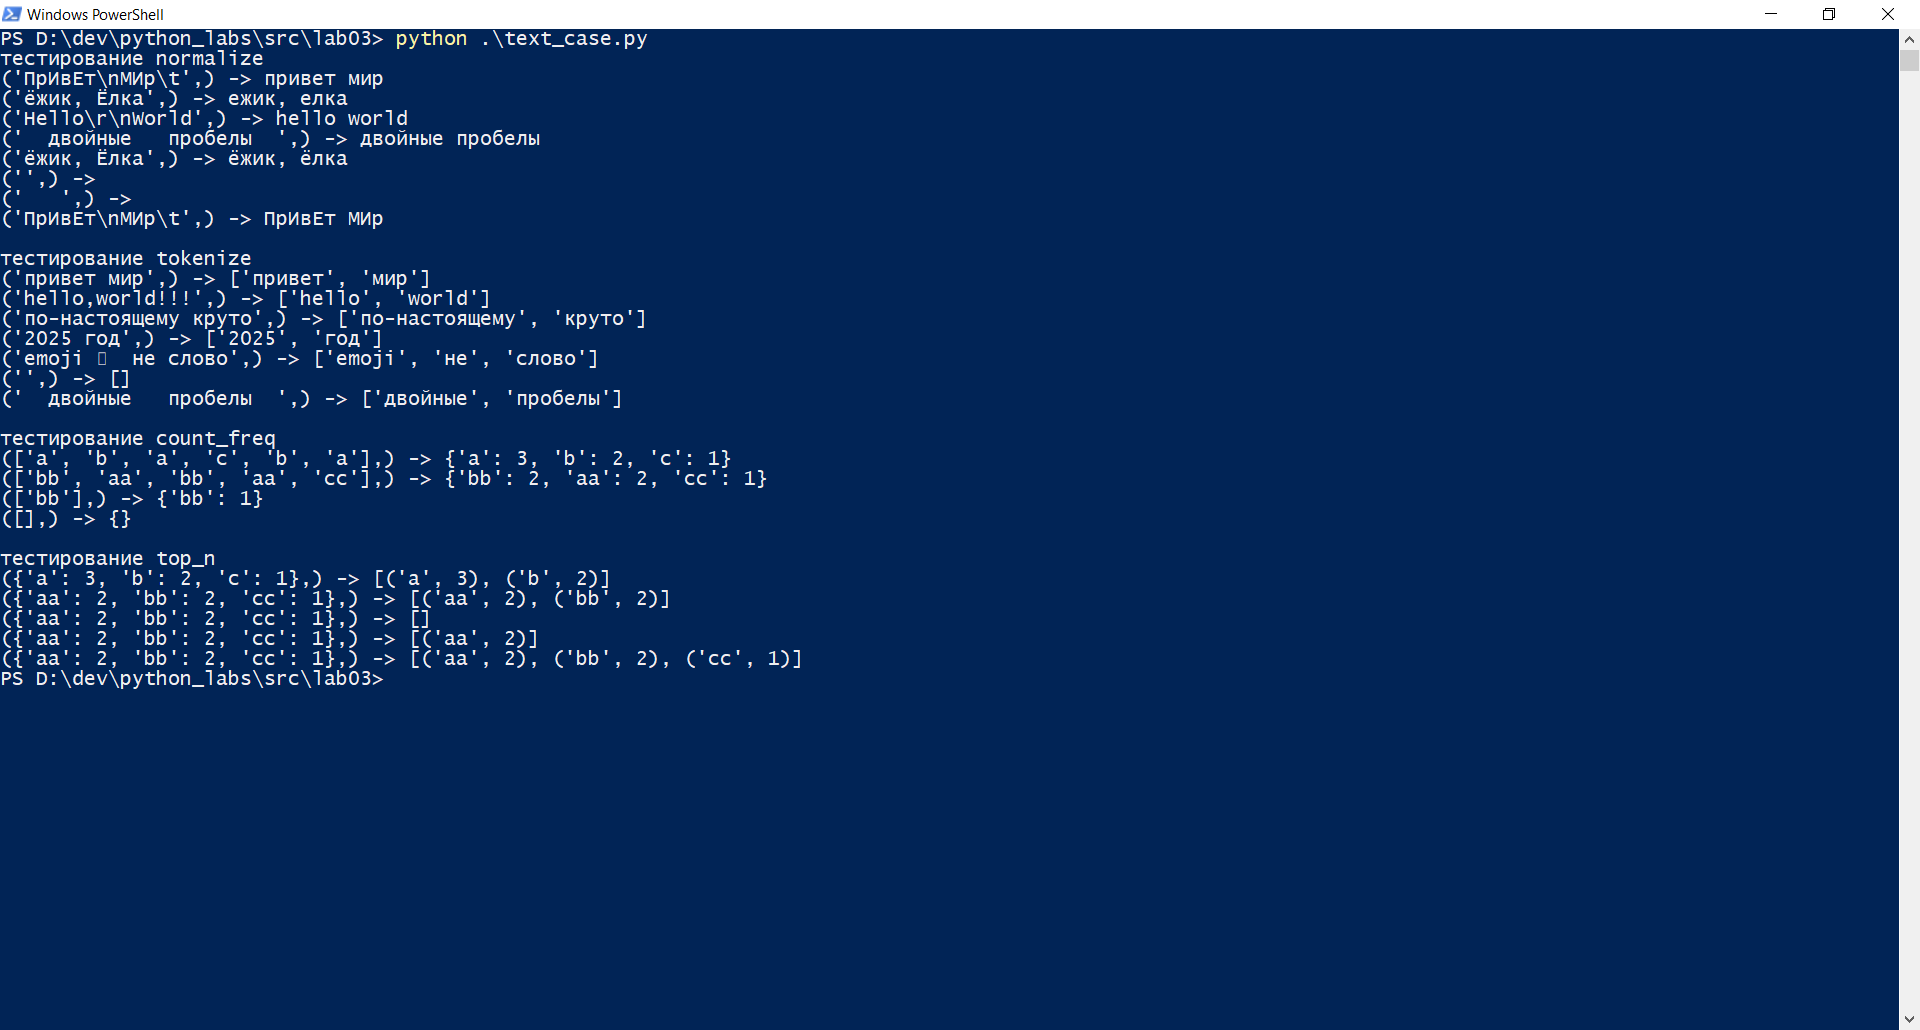
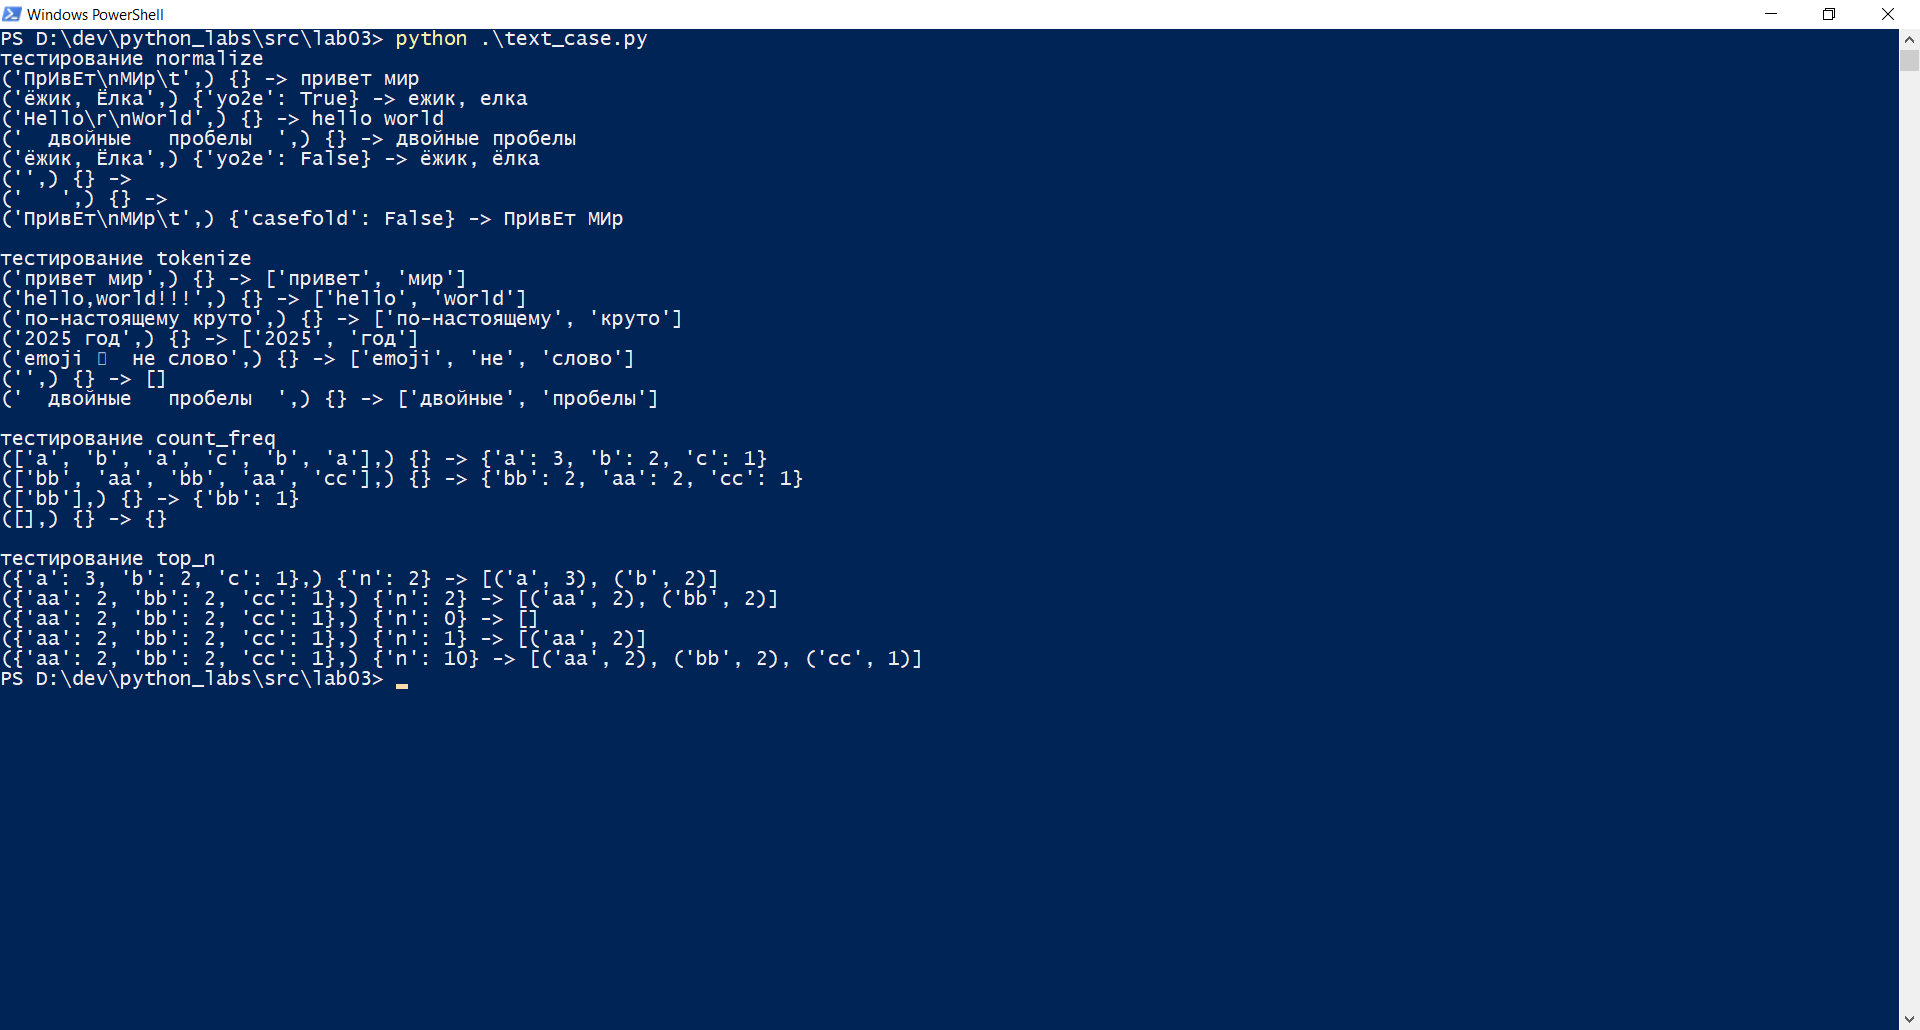
исправила

diff --git a/src/lib/text.py b/src/lib/text.py
@@ -3,7 +3,7 @@ def print_arg_ret(func, *a, **kwargs):
     Эта функция пишет аргументы (a) и возвращаемое значение функции (func)
     Используется для отладки тест-кейсов
     """
-    print(f'{a} -> ', end='')
+    print(f'{a} {kwargs} -> ', end='')
     r = func(*a, **kwargs)
     print(r)
     return r
